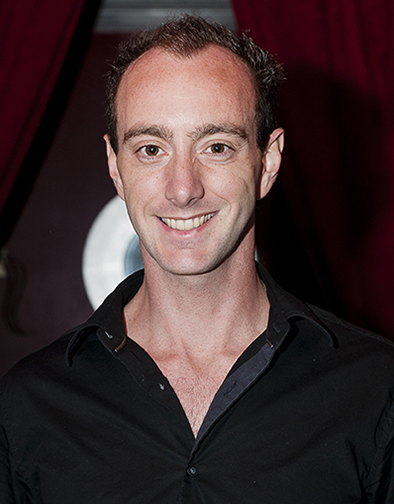
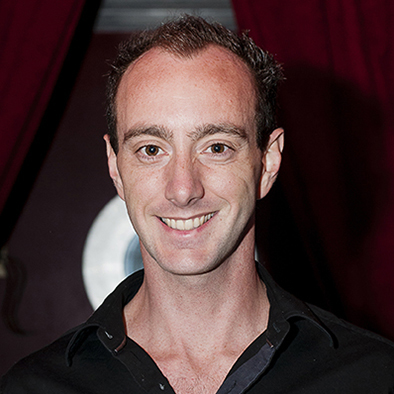
update

diff --git a/src/Containers/About/About.css b/src/Containers/About/About.css
@@ -18,8 +18,8 @@
   width: 25vw;
   height: 25vw;
   border-radius: 50%;
-  background-size: cover;
-  background-position:50% 50%;
+  object-fit: cover;
+  background-position: center 0px;
   background-repeat: no-repeat;
   border: 4px white solid;
   box-shadow: 4px 4px 4px rgb(0, 0, 0, 0.5);
